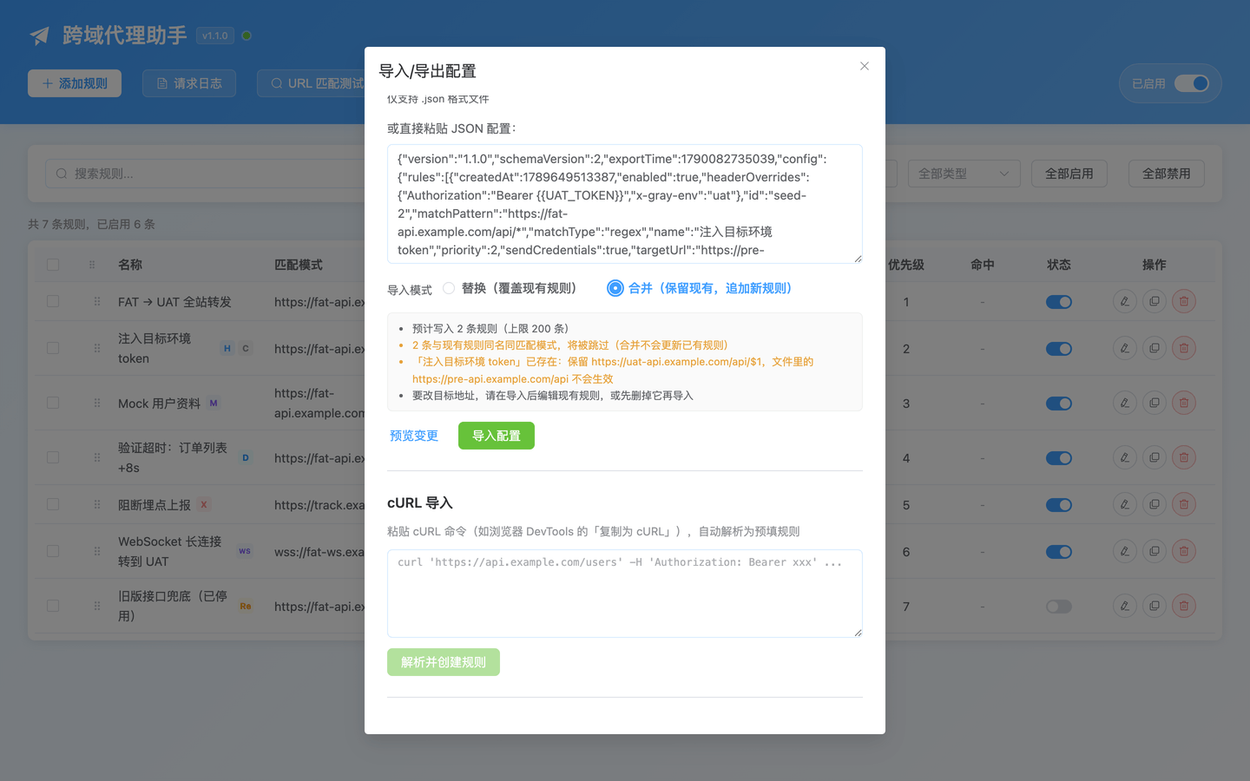
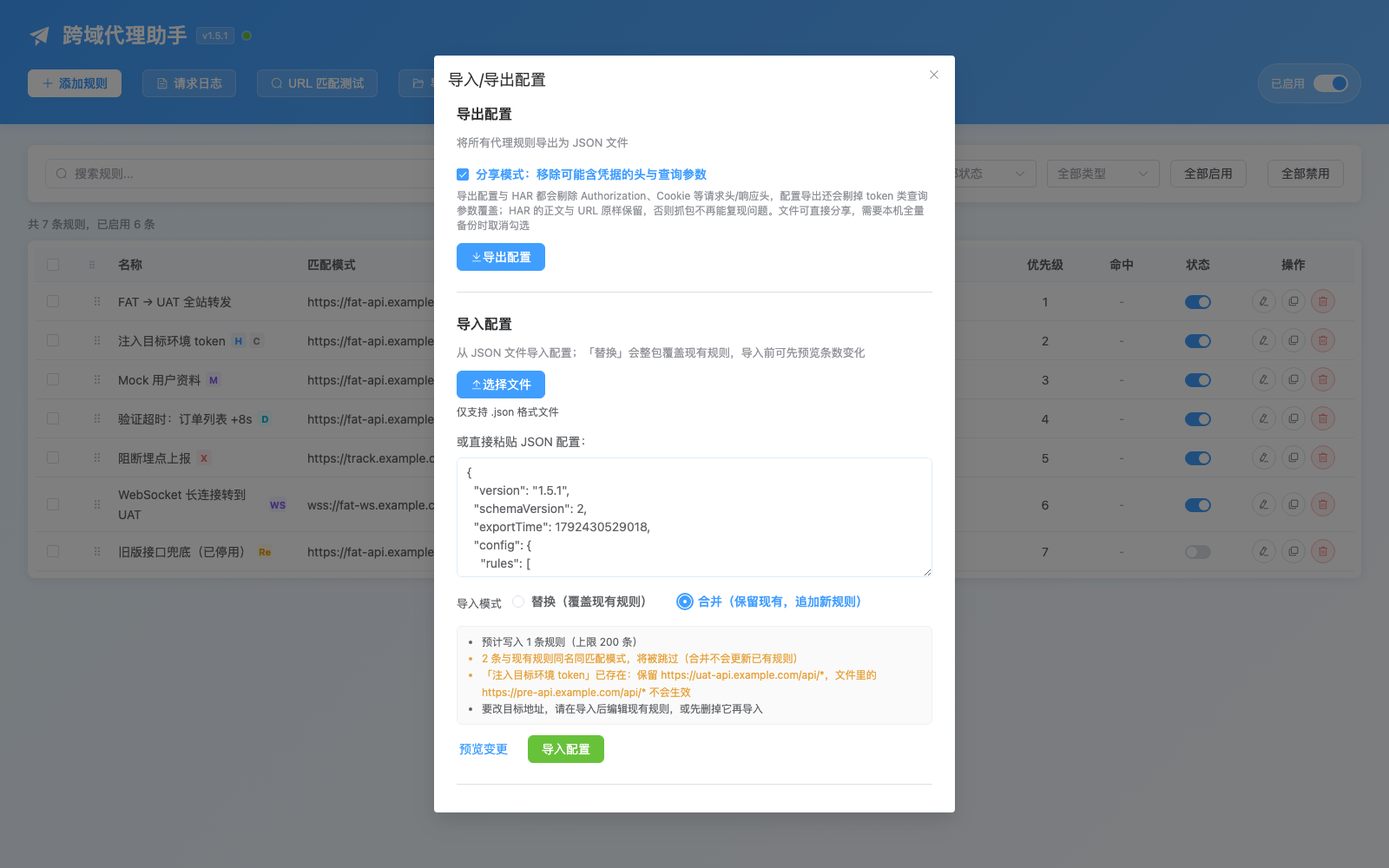
fix(theme): 暗色顶栏反色按钮的字被同权重压掉，商店与落地页截图按 1.5.1 实拍重拍
顶栏那颗主按钮在暗色下是一块反色的白底，字色本该是 --cop-primary。可
entrypoints/options/styles.css 里暗色那条 `:root[data-mode='dark'] .el-button--primary`
与 HeaderBar 的 `:deep(.header-actions .el-button--primary)` 同为 3 个类级权重，而它排在
组件样式之后，于是暗色的 on-primary 深墨字色赢了——rgb(16, 21, 31) 压在
rgb(26, 26, 46) 上，实测约 1.07:1，按钮文字等于消失。修法不是换顺序，而是给顶栏那条多
带一个 `.el-button` 抬到 4 个类级（3 类 + 作用域属性仍压不过暗色那条，这次一起解决），
胜负从此不由样式表顺序决定。修后 `#66b3ff` 落在 `#1a1a2e` 上约 7.7:1。守卫加在
tests/designTokens.test.ts：按类级权重逐条对账，并要求选择器里确实带 `.el-button`。

同一轮把商店与落地页的源截图按 1.5.1 的真实界面重拍：中文 8 张、英文 7 张（英文那套没
有深色一张），弹窗按 DSF 2 出图（中文 800×1178、英文 800×1246），规则编辑弹窗与导入
预览临时放开视口，避免「携带 Cookie」与第 4 条导入说明被裁掉。站点开关、当日经扩展请求
数、导入预览的 1 条写入 / 2 条跳过、请求头里的凭据变量引用都进了画面。再由
`pnpm assets` / `pnpm assets:en` 派生 store-assets 与 docs/assets/img 的 8 张 JPG。

说明文案跟着画面走，不再说图里没有的东西：规则编辑弹窗的正则改口为通配符（图上是
`https://api.example.com/v1/*`），导入预览由「2 条规则」改为「1 条写入 / 2 条跳过」并点名
跳过的环境，弹窗那条补上站点开关按主机生效与本页命中规则。README 中英、docs 两份落地页
同步，dateModified / 最后更新 / sitemap 的 lastmod 一起推到 2026-10-20；
CHROMEWEBSTORE.md 的 Last Updated 与截取出处同批更新，CHANGELOG 记一条修复。

diff --git a/docs/en.html b/docs/en.html
@@ -165,7 +165,7 @@
               "height": 630
             },
             "datePublished": "2026-08-28",
-            "dateModified": "2026-10-19"
+            "dateModified": "2026-10-20"
           },
           {
             "@type": "SoftwareApplication",
@@ -200,7 +200,7 @@
             "offers": { "@type": "Offer", "price": "0", "priceCurrency": "USD" },
             "author": { "@id": "https://liaolongdong.github.io/cross-origin-proxy/en.html#author" },
             "datePublished": "2026-08-28",
-            "dateModified": "2026-10-19",
+            "dateModified": "2026-10-20",
             "featureList": [
               "Rule-based URL rewriting by wildcard, prefix or regex",
               "Request header injection and replacement",
@@ -1381,7 +1381,7 @@
                 <figure>
                   <img
                     src="assets/img/rule-editor.jpg"
-                    alt="Rule editor dialog: regex match pattern, rewrite target, HTTP methods, query and header overrides"
+                    alt="Rule editor dialog: wildcard match pattern, rewrite target, HTTP methods, query and header overrides"
                     width="1200"
                     height="750"
                     loading="lazy"
@@ -1443,7 +1443,7 @@
                 <figure>
                   <img
                     src="assets/img/popup.jpg"
-                    alt="Extension popup with global switch, active rule count and quick links"
+                    alt="Extension popup with master switch and auto-off, active rules and requests today, a per-host site switch, and this page's matched rule and rewrite"
                     width="1200"
                     height="750"
                     loading="lazy"
@@ -1452,9 +1452,10 @@
                   <figcaption>
                     <b>Popup</b
                     ><span
-                      >Global switch, active rules, requests via the extension (background channel only), this tab's
-                      network-layer hits (5 min), recent calls, quick rule toggles, auto-off countdown, this page's
-                      address match preview and “create rule for this page”.</span
+                      >Master switch and auto-off presets, active rules and today's extension-proxied requests; the
+                      per-site switch scopes the proxy by host (subdomains included, scheme and port make no
+                      difference); the page card gives the matched rule, forwarding channel and rewritten URL right
+                      away.</span
                     >
                   </figcaption>
                 </figure>
@@ -1463,7 +1464,7 @@
                 <figure>
                   <img
                     src="assets/img/config-import.jpg"
-                    alt="Import preview: two rules will be written, two same-key rules will be skipped, and the target URL that would take no effect is named"
+                    alt="Import preview: one rule will be written, two same-key rules will be skipped, and the target URL that would take no effect is named"
                     width="1200"
                     height="750"
                     loading="lazy"
@@ -3066,7 +3067,7 @@ pnpm assets       # regenerate store and landing images</code></pre>
             <span>MIT licensed</span>
             <span>v1.5.1</span>
             <span>Manifest V3</span>
-            <span>Last updated 2026-10-19</span>
+            <span>Last updated 2026-10-20</span>
             <span
               ><a
                 href="./"

diff --git a/docs/index.html b/docs/index.html
@@ -165,7 +165,7 @@
               "height": 630
             },
             "datePublished": "2026-08-28",
-            "dateModified": "2026-10-19"
+            "dateModified": "2026-10-20"
           },
           {
             "@type": "SoftwareApplication",
@@ -200,7 +200,7 @@
             "offers": { "@type": "Offer", "price": "0", "priceCurrency": "USD" },
             "author": { "@id": "https://liaolongdong.github.io/cross-origin-proxy/#author" },
             "datePublished": "2026-08-28",
-            "dateModified": "2026-10-19",
+            "dateModified": "2026-10-20",
             "featureList": [
               "按通配符、前缀、正则匹配并重写请求 URL",
               "注入或替换请求头",
@@ -1335,7 +1335,7 @@
                 <figure>
                   <img
                     src="assets/img/rule-editor.jpg"
-                    alt="规则编辑弹窗：正则匹配模式、重写目标、HTTP 方法、查询参数与请求头覆盖"
+                    alt="规则编辑弹窗：通配符匹配模式、重写目标、HTTP 方法、查询参数与请求头覆盖"
                     width="1200"
                     height="750"
                     loading="lazy"
@@ -1395,7 +1395,7 @@
                 <figure>
                   <img
                     src="assets/img/popup.jpg"
-                    alt="扩展弹窗：总开关、启用规则数与快捷入口"
+                    alt="扩展弹窗：总开关与自动关闭、活跃规则与当日请求数、按主机生效的站点开关，以及本页命中与改写结果"
                     width="1200"
                     height="750"
                     loading="lazy"
@@ -1404,8 +1404,7 @@
                   <figcaption>
                     <b>弹窗</b
                     ><span
-                      >总开关、启用规则数、经扩展请求数（只统计后台通道）、本页近 5
-                      分钟网络层命中数、最近请求、规则快捷启停、自动关闭倒计时、本页地址命中预览，以及「为当前页创建规则」。</span
+                      >总开关与自动关闭档位、活跃规则与当日经扩展请求数；「这台站点的代理」按主机决定这一站是否生效（含子域，协议与端口不分家）；「本页地址」当场给出命中规则、转发通道与改写结果。</span
                     >
                   </figcaption>
                 </figure>
@@ -1414,7 +1413,7 @@
                 <figure>
                   <img
                     src="assets/img/config-import.jpg"
-                    alt="导入前预览：预计写入 2 条规则、2 条同键规则将被跳过，并点名不会生效的目标地址"
+                    alt="导入前预览：预计写入 1 条规则、2 条同键规则将被跳过，并点名不会生效的目标地址"
                     width="1200"
                     height="750"
                     loading="lazy"
@@ -2918,7 +2917,7 @@ pnpm assets       # 重新生成商店与落地页图片</code></pre>
             <span>MIT 开源协议</span>
             <span>v1.5.1</span>
             <span>Manifest V3</span>
-            <span>最后更新 2026-10-19</span>
+            <span>最后更新 2026-10-20</span>
             <span
               ><a
                 href="en.html"

diff --git a/tests/designTokens.test.ts b/tests/designTokens.test.ts
@@ -463,6 +463,35 @@ describe('EP 节奏覆盖必须靠特异度赢，而不是靠加载顺序', () =
 });
 
 /**
+ * 顶栏那颗反色主按钮（「添加规则」）在暗色模式下的可见性，同样只由特异度决定。
+ *
+ * `styles.css` 的 `:root[data-mode='dark'] .el-button--primary` 把字色换成 on-primary
+ * 深墨（让暗色主色实底上的文字看得清），而顶栏那颗按钮是反过来的：深色底 + 主色字。
+ * 两支选择器在本源里都是 3 个类级权重，可 `:deep()` 编译后 Vue 还会给 `.header-actions`
+ * 加一个 scoped 属性（+1 类级）；真正让顶栏赢的必须是选择器里多带的 `.el-button`
+ * （共 4 个类级），而不是谁的 `<link>` 排在后面。2026-10-20 在真 Chrome 里量到过
+ * 失效态：字色 `rgb(16, 21, 31)` 压在 `rgb(26, 26, 46)` 底上（约 1.07:1），按钮文字等于消失。
+ */
+describe('顶栏反色主按钮的权重必须高于暗色主按钮', () => {
+  const HEADER = 'components/options/HeaderBar.vue';
+  const GLOBAL_CSS = 'entrypoints/options/styles.css';
+
+  /** 源选择器里的类级权重（类 / 属性 / 伪类各记 1；`:deep()` 只取括号里的内容） */
+  const classWeight = (selector: string) => (selector.match(/\.[\w-]+|\[[^\]]+\]|:(?!:)[\w-]+/g) ?? []).length;
+
+  it('HeaderBar 的 `.el-button--primary` 规则带 `.el-button`，且暗色覆盖仍在', () => {
+    const header = readFileSync(HEADER, 'utf-8');
+    const match = header.match(/:deep\((\.header-actions[^{]*\.el-button--primary[^{]*)\)/);
+    expect(match, '找不到 HeaderBar 的主按钮选择器').not.toBeNull();
+    const headerWeight = classWeight(match![1]) + 1; // scoped 属性选择器在编译期加到 `.header-actions`
+    const styles = readFileSync(GLOBAL_CSS, 'utf-8');
+    const darkRule = ":root[data-mode='dark'] .el-button--primary";
+    expect(styles).toContain(darkRule);
+    expect(headerWeight).toBeGreaterThan(classWeight(darkRule));
+  });
+});
+
+/**
  * 换肤那一次整页淡入由四个快照层一起完成，四层都得挂在同一档上。
  *
  * 这条是 2026-09-26 真机量出来的：`::view-transition-group(root)` 当时没人写，于是它保持 UA 的

diff --git a/components/options/HeaderBar.vue b/components/options/HeaderBar.vue
@@ -242,7 +242,12 @@ const { t } = useI18n();
   transform: translateY(-1px);
 }
 
-:deep(.header-actions .el-button--primary) {
+/* 多带一个 `.el-button` 是承重的：`entrypoints/options/styles.css` 里暗色模式那条
+   `:root[data-mode='dark'] .el-button--primary` 与本选择器同为 3 个类级权重，而它排在
+   组件样式之后，于是暗色的 on-primary 深墨字色会盖掉这里反色按钮的 `--cop-primary`——
+   深墨字压在深色底上，按钮文字等于消失。加上 `.el-button` 抬到 4 个类级，
+   胜负不再由样式表顺序决定。 */
+:deep(.header-actions .el-button.el-button--primary) {
   font-weight: 500;
   color: var(--cop-primary);
   background: var(--cop-bg-color);

diff --git a/CHANGELOG.md b/CHANGELOG.md
@@ -11,6 +11,11 @@ Version numbers still live in `package.json` only — but release-please now wri
 还没进版本的变更先记在这里，中英各一段。下一次 release-please 开出 `## [x.y.z]` 小节时，把这一段并进那个小节、然后清空这里：机器人只会列提交标题，而商店用户读到的说明需要这里的长文。**标题不要写成 `## [Unreleased]` 这种带方括号的形式**——release-please 找插入点用的正则（`\n###? v?[0-9[]`）会把那一行当成第一个版本小节，于是新生成的小节插在它**上面**，整份已发布历史被挪到「未发布」这个标题底下，读起来像上一版还没发。
 Collect changes that are not in a released version yet here, in Chinese and English, and fold the block into the new `## [x.y.z]` section when release-please opens it. Do not title this block `## [Unreleased]`: release-please locates its insertion point with a regex that matches a bracketed heading, so the generated section would land above it and push the entire released history under an "unreleased" heading.
 
+### Fixed / 修复
+
+- **暗色主题下顶栏那颗反色主按钮不再「字与底同色」**：深色模式里「添加规则」的字色曾被一条同为 3 个类级权重的全局 `:root[data-mode='dark'] .el-button--primary` 靠样式表顺序压掉，深墨字压在深色底上——实测字色 `rgb(16, 21, 31)`、底色 `rgb(26, 26, 46)`，对比度约 1.07:1，等于看不见。修法是组件侧选择器多带一个 `.el-button` 抬到 4 个类级，胜负不再取决于加载顺序；`tests/designTokens.test.ts` 按源选择器权重守住这条。同一轮把商店与落地页的源截图按 1.5.1 的真实界面重拍（中文 8 张、英文 7 张——英文那套没有深色一张；站点开关、当日经扩展请求数、导入预览的 1 条写入 / 2 条跳过、请求头里的凭据变量引用），说明文案随之对齐。
+  **The inverted primary button in the dark header no longer renders its label in the background's own shade.** In dark mode the "Add Rule" text was overridden by a global `:root[data-mode='dark'] .el-button--primary` of equal specificity that happened to load later — measured `rgb(16, 21, 31)` on `rgb(26, 26, 46)`, about 1.07:1, i.e. invisible. The component selector now carries an extra `.el-button` so it wins on specificity rather than load order; `tests/designTokens.test.ts` pins the weights. The store/landing source screenshots were also re-shot against the real 1.5.1 UI (eight Chinese, seven English — the English set has no dark-theme shot; per-site switch, today's extension-proxied requests, an import preview showing one rule written and two skipped, credential-variable references in header values), with captions brought in line.
+
 ### Changed / 变更
 
 - **两处「画面先替用户下了结论」的地方改了说法，筛选也有了行级过渡**：① 打开配置页那一瞬间，此前画的是空态引导卡（「还没有规则，去新增一条 / 导入一份」），而那份读数还在路上——用户手上完全可能有三十条，那张卡正邀请他重复创建本来就在的东西。日志抽屉是同一件事，只是它当时说的已经是「未知」。现在那一段画的是骨架：规则表 5 行 × 5 格、抽屉 6 行 × 7 格，各带一句读屏文案（「正在读取已保存的规则」/「正在读取请求记录」），整块 `role="status"`。判据是 `还在读 && 这一次从来没读到过` 两半各管一件事：读到过一次之后的刷新绝不再闪骨架，而第一次就读失败时骨架当场让位给「暂时读不到」那一格——**「读不到」不许画成「还在加载」**，这是本仓「读不到 ≠ 没有」那条规矩的反方向。抽屉里那层 `v-loading` 遮罩因此改成只在「已经读到过一次」之后出现，不再和骨架叠成两层。② 规则表在可见行集合变了的那一次不再硬切（触发它的是搜索与筛选，但新增、删除、导入、换环境配置那几次走的是同一条判据，一并有了归位）：留在屏幕上的行按 `slow`（320ms）+ spring 归位滑过去，被筛回来的那批走已有的 `cop-rise-in`，并按 60 / 120 / 180ms 三档错峰。**带性能闸门**：可见行数任一侧越过 `MAX_ANIMATED_ROWS = 60` 就直接重排、一次动画都不发（2026-09-25 的满负载实测：500 行的抽屉「点击 → 首行出现」要 3.7–4.9s，代价按组件实例数走），「减少动态效果」那一档由 `applyFlip` 自己的实时媒体查询接住。日志抽屉的筛选**刻意不做**行级过渡：那份「按帧续载」每推一窗都会换一遍可见行集合，行级过渡会把「慢慢补齐」画成「一直在动」。两处都在真 Chrome（Chrome for Testing + CDP，中英夹具）里量过，31 项读数全绿——其中一条量出了第一版实现自己的错：外层面板交接用的是 `out-in`，新表格要等旧的那块退完才进 DOM，跨帧存矩形的那一版恰好在这一刻丢掉快照，表现是「表格出现后第一次筛选永远不动」；现在改成在重渲染之前现量，且只在「记下的 id 数与屏幕上的行元素数相等」时才认这批元素。骨架那一格、错峰阶梯、以及阶梯最高一档与 JS 摘类名用的 `ROW_STAGGER_MAX_DELAY_MS` 是否同数，都由 `tests/rowMotion.test.ts` 钉住（把阶梯改成逐个点名、或把那个常数改成 240ms，各红一次）。

diff --git a/README.en.md b/README.en.md
@@ -49,14 +49,14 @@ The six screens map to six everyday actions: **see the whole picture → write a
 
 <table>
   <tr>
-    <td width="50%" align="center"><a href="./docs/assets/img/rule-editor.jpg"><img src="./docs/assets/img/rule-editor.jpg" alt="Rule editor: regex match pattern, rewrite target, HTTP methods, query and header overrides" width="100%" /></a><br /><b>Rule editor</b> — matching / rewriting / header & response overrides / conditional mock / delay / block / retry in one form, with live conflict hints</td>
+    <td width="50%" align="center"><a href="./docs/assets/img/rule-editor.jpg"><img src="./docs/assets/img/rule-editor.jpg" alt="Rule editor: wildcard match pattern, rewrite target, HTTP methods, query and header overrides" width="100%" /></a><br /><b>Rule editor</b> — matching / rewriting / header & response overrides / conditional mock / delay / block / retry in one form, with live conflict hints</td>
     <td width="50%" align="center"><a href="./docs/assets/img/url-tester.jpg"><img src="./docs/assets/img/url-tester.jpg" alt="URL match tester: matched rule, rewritten URL and forwarding channel" width="100%" /></a><br /><b>URL match tester</b> — paste any URL to see the matched rule, rewrite result, forwarding channel and shadowed rules in real time</td>
   </tr>
   <tr>
     <td align="center"><a href="./docs/assets/img/request-log.jpg"><img src="./docs/assets/img/request-log.jpg" alt="Request log drawer: totals, per-channel hit stats, original and proxied URLs side by side" width="100%" /></a><br /><b>Request log</b> — last 500 entries, filterable, copy as cURL, HAR export, with per-channel hit statistics</td>
-    <td align="center"><a href="./docs/assets/img/popup.jpg"><img src="./docs/assets/img/popup.jpg" alt="Extension popup: global switch, today's requests and quick links" width="100%" /></a><br /><b>Popup</b> — global switch, today's requests, auto-off countdown, current-page hit preview and "create a rule for this page"</td>
+    <td align="center"><a href="./docs/assets/img/popup.jpg"><img src="./docs/assets/img/popup.jpg" alt="Extension popup: global switch, active rules and today's requests, a per-host site switch and this page's match preview" width="100%" /></a><br /><b>Popup</b> — global switch, active rules and today's requests, a per-host site switch, this page's matched rule and rewrite, plus auto-off presets</td>
   <tr>
-    <td align="center"><a href="./docs/assets/img/config-import.jpg"><img src="./docs/assets/img/config-import.jpg" alt="Import preview: two rules will be written, two same-key rules will be skipped, and the target URL that would take no effect is named" width="100%" /></a><br /><b>Import and export</b> — paste or pick a JSON file and hit Preview first: how many rules get written, which are skipped for sharing a name and match pattern, and which target URL would take no effect; the same dialog covers export with credential-stripping share mode, cURL / HAR / OpenAPI import and the restore points taken before a whole-set replace</td>
+    <td align="center"><a href="./docs/assets/img/config-import.jpg"><img src="./docs/assets/img/config-import.jpg" alt="Import preview: one rule will be written, two same-key rules will be skipped, and the target URL that would take no effect is named" width="100%" /></a><br /><b>Import and export</b> — paste or pick a JSON file and hit Preview first: how many rules get written, which are skipped for sharing a name and match pattern, and which target URL would take no effect; the same dialog covers export with credential-stripping share mode, cURL / HAR / OpenAPI import and the restore points taken before a whole-set replace</td>
     <td align="center"><a href="./docs/assets/img/credential-variables.jpg"><img src="./docs/assets/img/credential-variables.jpg" alt="Preferences dialog: theme colours, interface language, auto-off and the credential variable table with masked values" width="100%" /></a><br /><b>Credential variables</b> — each token lives in one local table; rules reference it as <code>{{NAME}}</code> and the real value is expanded only at send time, so exports, logs and page scripts never see it</td>
   </tr>
 </table>

diff --git a/README.md b/README.md
@@ -49,14 +49,14 @@
 
 <table>
   <tr>
-    <td width="50%" align="center"><a href="./docs/assets/img/rule-editor.jpg"><img src="./docs/assets/img/rule-editor.jpg" alt="规则编辑弹窗：正则匹配模式、重写目标、HTTP 方法、查询参数与请求头覆盖" width="100%" /></a><br /><b>规则编辑器</b>——匹配 / 重写 / 请求头与响应覆盖 / 条件化 Mock / 延迟 / 阻断 / 重试，一个表单配齐，带实时冲突提示</td>
+    <td width="50%" align="center"><a href="./docs/assets/img/rule-editor.jpg"><img src="./docs/assets/img/rule-editor.jpg" alt="规则编辑弹窗：通配符匹配模式、重写目标、HTTP 方法、查询参数与请求头覆盖" width="100%" /></a><br /><b>规则编辑器</b>——匹配 / 重写 / 请求头与响应覆盖 / 条件化 Mock / 延迟 / 阻断 / 重试，一个表单配齐，带实时冲突提示</td>
     <td width="50%" align="center"><a href="./docs/assets/img/url-tester.jpg"><img src="./docs/assets/img/url-tester.jpg" alt="URL 匹配预演：命中规则、重写后地址与转发通道" width="100%" /></a><br /><b>URL 匹配预演</b>——粘贴任意地址，实时查看命中规则、重写结果、转发通道与被遮蔽规则</td>
   </tr>
   <tr>
     <td align="center"><a href="./docs/assets/img/request-log.jpg"><img src="./docs/assets/img/request-log.jpg" alt="请求日志抽屉：总计与成功失败、两条通道各自的命中统计、原始与代理地址并排" width="100%" /></a><br /><b>请求日志</b>——最近 500 条，可筛选、复制为 cURL、导出 HAR，含两条通道各自的命中统计</td>
-    <td align="center"><a href="./docs/assets/img/popup.jpg"><img src="./docs/assets/img/popup.jpg" alt="扩展弹窗：总开关、今日请求与快捷入口" width="100%" /></a><br /><b>弹窗</b>——总开关、今日请求、自动关闭倒计时、当前页命中预演与「为本页创建规则」</td>
+    <td align="center"><a href="./docs/assets/img/popup.jpg"><img src="./docs/assets/img/popup.jpg" alt="扩展弹窗：总开关、活跃规则与今日请求、按主机生效的站点开关与本页命中预览" width="100%" /></a><br /><b>弹窗</b>——总开关、活跃规则与今日请求、按主机生效的站点开关、当前页命中规则与改写结果、自动关闭档位</td>
   <tr>
-    <td align="center"><a href="./docs/assets/img/config-import.jpg"><img src="./docs/assets/img/config-import.jpg" alt="导入前预览：预计写入 2 条规则、2 条同键规则将被跳过，并点名不会生效的目标地址" width="100%" /></a><br /><b>导入与导出</b>——粘贴或选择 JSON 后先「预览变更」：写入几条、哪几条因同名同匹配模式被跳过、哪个目标地址不会生效，导入前就说清楚；同一弹窗还负责导出（分享模式剔除凭据）、cURL / HAR / OpenAPI 导入与整套替换前的恢复点</td>
+    <td align="center"><a href="./docs/assets/img/config-import.jpg"><img src="./docs/assets/img/config-import.jpg" alt="导入前预览：预计写入 1 条规则、2 条同键规则将被跳过，并点名不会生效的目标地址" width="100%" /></a><br /><b>导入与导出</b>——粘贴或选择 JSON 后先「预览变更」：写入几条、哪几条因同名同匹配模式被跳过、哪个目标地址不会生效，导入前就说清楚；同一弹窗还负责导出（分享模式剔除凭据）、cURL / HAR / OpenAPI 导入与整套替换前的恢复点</td>
     <td align="center"><a href="./docs/assets/img/credential-variables.jpg"><img src="./docs/assets/img/credential-variables.jpg" alt="偏好设置弹窗：主题颜色、界面语言、自动关闭代理与凭据变量表，变量真值以圆点遮蔽" width="100%" /></a><br /><b>凭据变量</b>——token 只在本机存一份，规则里写 <code>{{名称}}</code> 引用，代发那一刻才展开；导出、日志与页面侧脚本都拿不到真值</td>
   </tr>
 </table>

diff --git a/.github/docs/CHROMEWEBSTORE.md b/.github/docs/CHROMEWEBSTORE.md
@@ -1,6 +1,6 @@
 # Chrome Web Store Listing — 跨域代理助手 / Cross-Origin Proxy
 
-> Last Updated: 2026-09-22
+> Last Updated: 2026-10-20
 > 本文件是商店上架的唯一素材源：把这里的内容逐项复制进 [Chrome Web Store Developer Dashboard](https://chrome.google.com/webstore/devconsole)。
 > 商店表单（名称/描述/截图/权限理由/数据披露）无法由 API 代写，只能手动粘；**包上传与提审已经自动化**，见第 11 节。
 > 本文件位于 `.github/docs/`——仓库侧的运维文档，和它所描述的自动化放在同一棵子树里。它不在 `.output/chrome-mv3` 内，因此不会被打进上传包。
@@ -400,7 +400,7 @@ Redirects a page's API requests to another backend environment and lets develope
 
 ## 2. Graphics & Assets
 
-运行 `pnpm assets`（中文版）与 `pnpm assets:en`（英文版）生成，产物在 `store-assets/`（已 gitignore，可再生）。原图按语言分两套：`screenshots/*.png` 是中文界面（落地页与 README 用），`screenshots/en/*.png` 是英文界面——`--en` 生成商店图时优先取后者，**英文列表因此配的是英文截图**。截图于 2026-09-22 用 1.1.0 构建实拍重拍（演示数据，7 条规则）。
+运行 `pnpm assets`（中文版）与 `pnpm assets:en`（英文版）生成，产物在 `store-assets/`（已 gitignore，可再生）。原图按语言分两套：`screenshots/*.png` 是中文界面（落地页与 README 用），`screenshots/en/*.png` 是英文界面——`--en` 生成商店图时优先取后者，**英文列表因此配的是英文截图**。截图于 2026-10-20 用 1.5.1 构建实拍重拍（演示数据，7 条规则）。`05-popup` 只截弹窗首屏那一屏（总开关与自动关闭、三个计数、站点开关、本页命中），快捷入口在更下方，没有进这张图。
 
 | Asset                  | Dimensions  | Status   | Filename                                                                              |
 | ---------------------- | ----------- | -------- | ------------------------------------------------------------------------------------- |
